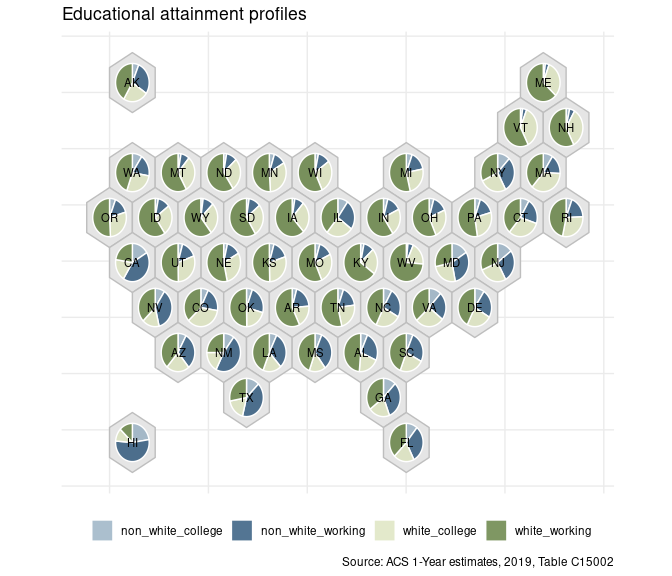
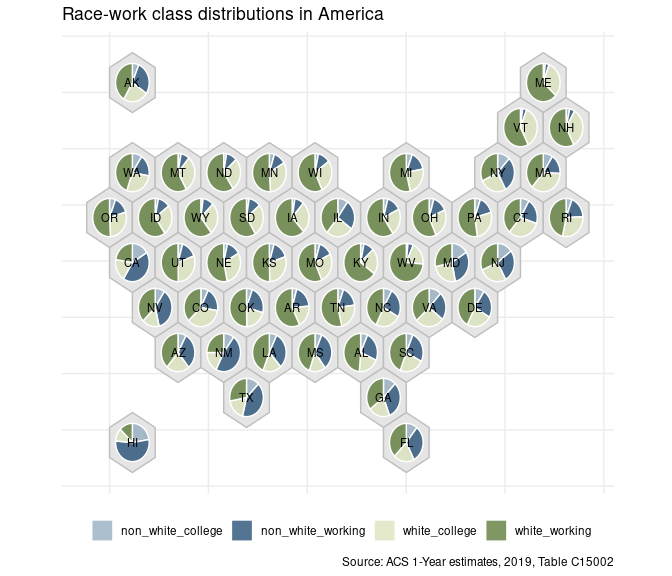
re

Changed region(s): [[0.0938, 0.0, 0.5625, 0.0625]]

diff --git a/all-the-newness.md b/all-the-newness.md
@@ -8,9 +8,8 @@ American political data & R
 **An R-based guide** to accessing, exploring & visualizing US political
 data utilizing a collection of publicly available resources, including
 election returns for presidential and congressional races, lawmaker
-political ideologies, and congressional district demographics.
-
-Data used in this guide have been collated from [Daily
+political ideologies, and congressional district demographics. Data used
+in this guide have been collated from [Daily
 Kos](https://www.dailykos.com/), [MIT Election Data and Science
 Lab](MIT%20Election%20Data%20and%20Science%20Lab) and the R packages
 [tidycensus](https://walker-data.com/tidycensus/) &
@@ -50,7 +49,8 @@ work presented here can be reproduced in its entirety.
             South](#v7-political-realignment-in-the-south)
         -   [V8 On the evolution of the Southern
             Republican](#v8-on-the-evolution-of-the-southern-republican)
-    -   [Four generations of lawmakers](#four-generations-of-lawmakers)
+    -   [Four generations of American
+        lawmakers](#four-generations-of-american-lawmakers)
         -   [V9 Trends in the average age of House
             members](#v9-trends-in-the-average-age-of-house-members)
         -   [V10 Shifting distributions
@@ -66,8 +66,10 @@ work presented here can be reproduced in its entirety.
         -   [V14 ACS variables and margins of
             victory](#v14-acs-variables-and-margins-of-victory)
     -   [America’s White working class](#america's-white-working-class)
-        -   [V15 White working profiles](#v15-white-working-profiles)
-        -   [V16 A working map](#v16-a-working-map)
+        -   [V15 Race-work class
+            distributions](#v15-race-work-class-distributions)
+        -   [V16 The White working class’
+            America](#v16-the-white-working-class'-america)
         -   [V17 White working class and rural
             America](#v17-white-working-class-and-rural-america)
     -   [Lastly](#lastly)
@@ -190,8 +192,8 @@ vvo <- lapply(c('house', 'senate'), function(x) {
     filter(congress > 66 & chamber != 'President') })
 ```
 
-    ## [1] "/tmp/Rtmpv6DDsz/Hall_members.csv"
-    ## [1] "/tmp/Rtmpv6DDsz/Sall_members.csv"
+    ## [1] "/tmp/RtmpPM60hR/Hall_members.csv"
+    ## [1] "/tmp/RtmpPM60hR/Sall_members.csv"
 
 ``` r
 congress <- vvo %>%
@@ -597,8 +599,8 @@ congress_south %>%
 
 ------------------------------------------------------------------------
 
-Four generations of lawmakers
------------------------------
+Four generations of American lawmakers
+--------------------------------------
 
 > [Pew
 > Research](http://www.pewresearch.org/fact-tank/2018/04/11/millennials-largest-generation-us-labor-force/ft_15-05-11_millennialsdefined/)
@@ -897,6 +899,9 @@ America’s White working class
 > obtained a Bachelor’s degree (or higher). Per Table C15002: **Sex by
 > educational attainment for the population 25 years and over**.
 
+> Note: In previous version of this document, I did not correctly count
+> the White working class.
+
 ``` r
 white_ed_vars <- c(white_m_bach = 'C15002H_006',
                    white_w_bach = 'C15002H_011',
@@ -915,6 +920,11 @@ white_ed_vars <- c(white_m_bach = 'C15002H_006',
 -   White & non-Hispanic without college degree,
 -   Non-White and/or Hispanic with college degree, and
 -   Non-White and/or Hispanic college degree.
+
+> Note: The “and/or Hispanic” piece is slightly confusing here. For most
+> people, Hispanic = Brown = Race; from this perspective, ethnicity (as
+> distinct from race) is not a meaningful distinction. We include it
+> here because it is included in the census.
 
 ``` r
 white_ed <- tidycensus::get_acs(geography = 'congressional district',
@@ -954,7 +964,7 @@ white_ed <- tidycensus::get_acs(geography = 'congressional district',
          district_code, group, per, estimate)
 ```
 
-### V15 White working profiles
+### V15 Race-work class distributions
 
 ``` r
 set.seed(99)
@@ -978,16 +988,18 @@ white_ed %>%
   theme_minimal() +
   facet_wrap(~paste0(state_abbrev, '-', district_code)) +
   theme(legend.position = "none") + 
-  labs(title = "Educational attainment profiles",
+  labs(title = "Race-work class distributions",
        caption = 'Source: ACS 1-Year estimates, 2019, Table C15002')
 ```
 
 ![](all-the-newness_files/figure-markdown_github/unnamed-chunk-38-1.png)
 
-### V16 A working map
+### V16 The White working class’ America
+
+> A state-based map in pie charts. Race-work class counts for states
+> based on aggregate of congressional district counts.
 
 ``` r
-## agg to states --
 white_ed2_state <- white_ed %>%
   group_by(state_abbrev, group) %>%
   summarise(estimate = sum(estimate)) %>%
@@ -995,7 +1007,7 @@ white_ed2_state <- white_ed %>%
   ungroup()
 ```
 
-Centroids and things –
+> Calculate centroids for the equal-area state geometry.
 
 ``` r
 cents <- sf::st_centroid(uspols::xsf_TileOutv10) %>%
@@ -1007,8 +1019,6 @@ cents <- sf::st_centroid(uspols::xsf_TileOutv10) %>%
               select(-estimate) %>% 
               spread(group, per)) 
 ```
-
-Real viz, then –
 
 ``` r
 ggplot() +
@@ -1038,7 +1048,7 @@ ggplot() +
         axis.title.y=element_blank(),
         legend.position = 'bottom',
         legend.title=element_blank()) +
-  labs(title = "Educational attainment profiles",
+  labs(title = "Race-work class distributions in America",
        caption = 'Source: ACS 1-Year estimates, 2019, Table C15002')
 ```
 
